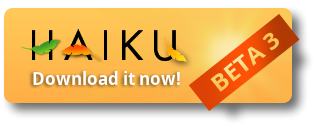
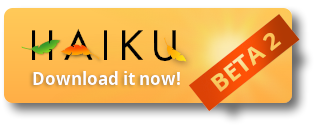
Update Beta3 pages
Add link classes to ensure table is visible (though this is dependent on #521 passing) and reverted change of graphic to Beta2 download button to prevent any confusion once this is merged.

diff --git a/content/get-haiku/r1beta3/_index.md b/content/get-haiku/r1beta3/_index.md
@@ -7,7 +7,7 @@ draft = "true"
 +++
 **WIP Draft - this has not been finalised!**
 
-{{< alert-info "Haiku is free, open-source software developed by people like you." "<a href="https://www.haiku-inc.org/donate/">Haiku is developed by a small group of volunteers. To help with development and bandwidth costs, please consider donating a small amount. We rely on your support to continue the development of Haiku into the future.</a> ">}}
+{{< alert-info "Haiku is free, open-source software developed by people like you" " [Haiku is developed by a small group of volunteers. To help with development and bandwidth costs, please consider donating a small amount. We rely on your support to continue the development of Haiku into the future.](https://www.haiku-inc.org/donate/)" >}}
 
 </div>
 
@@ -21,7 +21,8 @@ draft = "true"
 </ul>
 </div>
 
-{{< alert-info "Looking for the Nightly Images?" "They can be found at <a href="https://download.haiku-os.org">download.haiku-os.org</a>. **Nightly Images are unstable and untested - use at your own risk!**">}}
+<div class="alert-info"> Looking for the Nightly Images? They can be found at <a href="https://download.haiku-os.org" target="_blank">download.haiku-os.org.</a> **Nightly Images are unstable and untested - use at your own risk!**
+</div>
 
 
 ## Download a Haiku Image
@@ -45,30 +46,30 @@ If you choose to download an image, please select from the list of available mir
 </tr>
 </thead>
 <tbody>
-    <tr>
+    <tr class="link">
       <td class="location"><b>Location:</b> East Coast, United States <br/>Provided by: <a target="_blank" class="ext" href="https://haiku-inc.org" title="Haiku, Inc.">Haiku, Inc.</a></td>
-      <td><a class="track" href="https://s3.wasabisys.com/haiku-release/r1beta3/haiku-r1beta3-x86_gcc2h-anyboot.zip">zip</a></td>
-      <td><a class="track" href="https://s3.wasabisys.com/haiku-release/r1beta3/haiku-r1beta3-x86_64-anyboot.zip">zip</a></td>
+      <td><a class="track" href="https://s3.wasabisys.com/haiku-release/r1beta3/haiku-r1beta3-x86_gcc2h-anyboot.iso">zip</a></td>
+      <td><a class="track" href="https://s3.wasabisys.com/haiku-release/r1beta3/haiku-r1beta3-x86_64-anyboot.iso">zip</a></td>
     </tr>
-    <tr>
+    <tr class="link">
       <td class="location"><b>Location:</b> Amsterdam, The Netherlands <br/>Provided by: <a target="_blank" class="ext" href="https://haiku-inc.org" title="Haiku, Inc.">Haiku, Inc.</a></td>
-      <td><a class="track" href="https://cdn.haiku-os.org/haiku-release/r1beta3/haiku-r1beta3-x86_gcc2h-anyboot.zip">zip</a></td>
-      <td><a class="track" href="https://cdn.haiku-os.org/haiku-release/r1beta3/haiku-r1beta3-x86_64-anyboot.zip">zip</a></td>
+      <td><a class="track" href="https://cdn.haiku-os.org/haiku-release/r1beta3/haiku-r1beta3-x86_gcc2h-anyboot.iso">zip</a></td>
+      <td><a class="track" href="https://cdn.haiku-os.org/haiku-release/r1beta3/haiku-r1beta3-x86_64-anyboot.iso">zip</a></td>
     </tr>
-    <tr>
+    <tr class="link">
       <td class="location"><b>Location:</b> New York, United States <br/>Provided by: <a target="_blank" class="ext" href="http://www.rit.edu" title="RIT">Rochester Institute of Technology</a></td>
-      <td><a class="track" href="http://mirror.rit.edu/haiku/r1beta3/haiku-r1beta3-x86_gcc2h-anyboot.zip">zip</a></td>
-      <td><a class="track" href="http://mirror.rit.edu/haiku/r1beta3/haiku-r1beta3-x86_64-anyboot.zip">zip</a></td>
+      <td><a class="track" href="http://mirror.rit.edu/haiku/r1beta3/haiku-r1beta3-x86_gcc2h-anyboot.iso">zip</a></td>
+      <td><a class="track" href="http://mirror.rit.edu/haiku/r1beta3/haiku-r1beta3-x86_64-anyboot.iso">zip</a></td>
     </tr>
-    <tr>
+    <tr class="link">
       <td class="location"><b>Location:</b> Oregon, United States <br/>Provided by: <a target="_blank" class="ext" href="http://www.osuosl.org" title="OSUOSL">Oregon State University</a></td>
-      <td><a class="track" href="https://ftp.osuosl.org/pub/haiku/r1beta3/haiku-r1beta3-x86_gcc2h-anyboot.zip">zip</a></td>
-      <td><a class="track" href="https://ftp.osuosl.org/pub/haiku/r1beta3/haiku-r1beta3-x86_64-anyboot.zip">zip</a></td>
+      <td><a class="track" href="https://ftp.osuosl.org/pub/haiku/r1beta3/haiku-r1beta3-x86_gcc2h-anyboot.iso">zip</a></td>
+      <td><a class="track" href="https://ftp.osuosl.org/pub/haiku/r1beta3/haiku-r1beta3-x86_64-anyboot.iso">zip</a></td>
     </tr>
-    <tr>
+    <tr class="link">
       <td class="location"><b>Location:</b> Stockholm, Sweden <br/>Provided by: <a target="_blank" class="ext" href="http://www.tnonline.net" title="tnonline.net">tnonline.net</a></td>
-      <td><a class="track" href="https://mirrors.tnonline.net/haiku/haiku-release/r1beta3/haiku-r1beta3-x86_gcc2h-anyboot.zip">zip</a></td>
-      <td><a class="track" href="https://mirrors.tnonline.net/haiku/haiku-release/r1beta3/haiku-r1beta3-x86_64-anyboot.zip">zip</a></td>
+      <td><a class="track" href="https://mirrors.tnonline.net/haiku/haiku-release/r1beta3/haiku-r1beta3-x86_gcc2h-anyboot.iso">zip</a></td>
+      <td><a class="track" href="https://mirrors.tnonline.net/haiku/haiku-release/r1beta3/haiku-r1beta3-x86_64-anyboot.iso">zip</a></td>
     </tr>
 </tbody>
 </table>
@@ -79,8 +80,8 @@ If you choose to download an image, please select from the list of available mir
 <p>In order to assist with distribution, we have also created .torrent files that can be used to download and seed the release files for others.<br/>
 <b>Please continue seeding the torrents if you can!</b></p>
 <ul>
- <li><a class="track" href="https://cdn.haiku-os.org/haiku-release/r1beta3/haiku-r1beta3-x86_gcc2h-anyboot.zip.torrent">32-bit</a></li>
- <li><a class="track" href="https://cdn.haiku-os.org/haiku-release/r1beta3/haiku-r1beta3-x86_64-anyboot.zip.torrent">64-bit</a></li>
+ <li><a class="track" href="https://cdn.haiku-os.org/haiku-release/r1beta3/haiku-r1beta3-x86_gcc2h-anyboot.iso.torrent">32-bit</a></li>
+ <li><a class="track" href="https://cdn.haiku-os.org/haiku-release/r1beta3/haiku-r1beta3-x86_64-anyboot.iso.torrent">64-bit</a></li>
 </ul>
 
 <h3>Checksums</h3>
@@ -88,8 +89,8 @@ If you choose to download an image, please select from the list of available mir
 <p>To make sure that you have got the right file and that it has not been corrupted during file transfer, it is always wise to ensure the integrity of your download. To that end, you can use the SHA256 checksums shown below to verify that what you have is the correct file.</p>
 
 <pre>
-[checksum] haiku-r1beta3-x86_64-anyboot.zip
-[checksum] haiku-r1beta3-x86_gcc2h-anyboot.zip
+[checksum] haiku-r1beta3-x86_64-anyboot.iso
+[checksum] haiku-r1beta3-x86_gcc2h-anyboot.iso
 </pre>
 
 <p>
